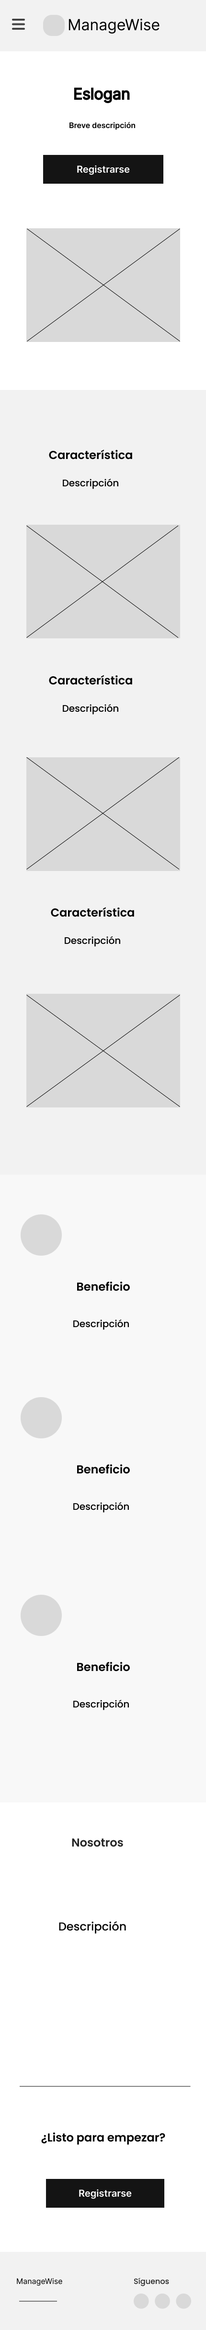
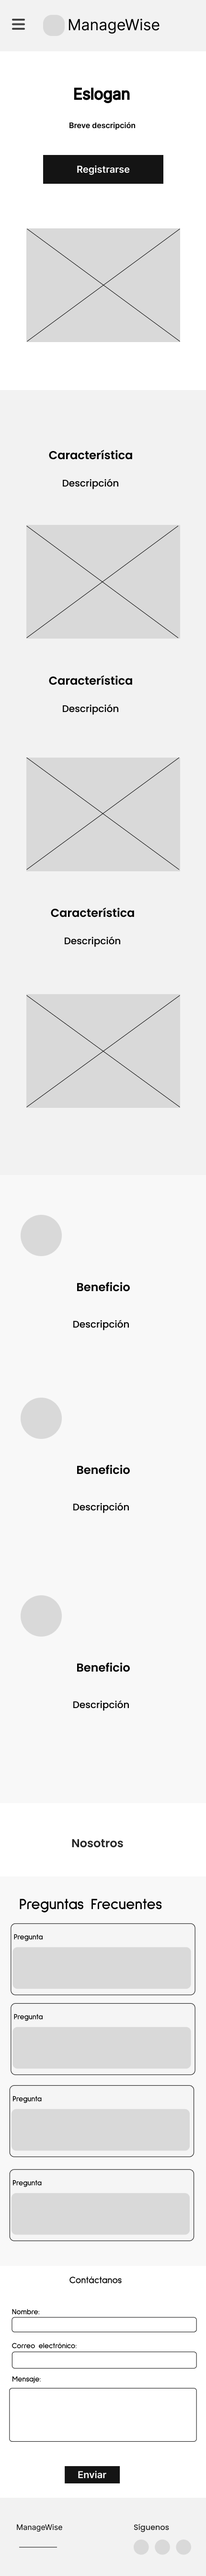
feature: update images and insert UserStory in Product Backlog

diff --git a/README.md b/README.md
@@ -984,7 +984,7 @@ Anexo E
 | 4      | US04          | Iniciar Sesión Rápido y Visible                         | Como usuario de la plataforma, quiero poder iniciar sesión desde un enlace visible en la página principal para acceder rápidamente a mi cuenta.                                                                                                |               3               |
 | 5      | US05          | Resumen de la Empresa, Misión y Visión                  | Como visitante, quiero ver un resumen de la empresa junto con la misión y visión para entender su enfoque y valores antes de registrarme.                                                                                                      |               2               |
 | 6      | US06          | Navegación Clara y Directa en la Página                 | Como usuario potencial, quiero poder navegar de forma clara y directa entre las secciones de la página para encontrar la información que necesito rápidamente.                                                                                 |               2               |
-| 7      | US07          | Comentar actividades                                    | Como líder del equipo, quiero poder agregar y eliminar comentarios sobre las actividades de los miembros del equipo, para que mis observaciones sean visibles y revisadas por el equipo antes de ser eliminadas.                               |               2               |
+| 7      | US07          | Preguntas Frecuentes                                   | Como usuario, quiero poder acceder a una sección de preguntas frecuentes en la landing page para resolver mis dudas sobre el uso de la plataforma.   |               2               |
 | 8      | US08          | Análisis de rendimiento basado en IA                    | Como líder de proyecto, quiero que la plataforma analice métricas de rendimiento del equipo, como tiempos de entrega y eficiencia, y sugiera posibles mejoras basadas en datos históricos para optimizar el trabajo.                           |               8               |
 | 9      | US09          | Personalización de interfaz                             | Como usuario de la plataforma, quiero poder personalizar la interfaz según mis preferencias y necesidades para facilitar el acceso rápido a las herramientas y funciones más utilizadas.                                                       |               3               |
 | 10     | US10          | Sincronización con herramientas externas                | Como líder de proyecto, quiero que la plataforma se integre de manera fluida con otras herramientas y sistemas externos (como calendarios y aplicaciones de mensajería) para centralizar la gestión de proyectos.                              |               5               |
@@ -1409,6 +1409,7 @@ La landing page cuenta con diferentes secciones:
 - Beneficios: El usuario puede ver los beneficios de usar la aplicación.
 - Nosotros: Se muestran la visión, misión y un breve resumen sobre la empresa detrás del proyecto. Además se incentiva al usuario a registrarse.
 - Footer: Enlaces a las redes sociales de la plataforma.  
+- Preguntas Frecuentes: Se muestra las preguntas frecuentes que suelen hacernos al momento de utilizar nuestra aplicación web
   <br>
   <img src="assets/images/WireframeDesktopWebBrowser.png">
   <br>
@@ -1433,7 +1434,7 @@ Se cuenta con un hamburger menu, el cual puede ser desplegado por el usuario y e
 <img width=300px src="assets/images/Wireframe-MobileWebBrowser-Menu.png">
 <br>
 
-Se cuenta con las mismas secciones que para desktop web browser (Hero o header, Descripción general, Beneficios, Nosotros), las cuales tienen la misma finalidad, pero en este caso se adaptan a la pantalla; permitiendo así acceso óptimo a la información.
+Se cuenta con las mismas secciones que para desktop web browser (Hero o header, Descripción general, Beneficios, Nosotros, preguntas frecuentes), las cuales tienen la misma finalidad, pero en este caso se adaptan a la pantalla; permitiendo así acceso óptimo a la información.
 <br>
 <img width=300px src="assets/images/Wireframe-MobileWebBrowser.png">
 <br>
@@ -2155,7 +2156,17 @@ El sprint planning es una reunion antes de cada sprint en la metodologia Scrum d
 #### 5.2.1.2 Sprint Backlog 1.
 
 Para el primer sprint backlog, recopilamos historias de usuario relacionadas con la página de inicio (landing page) . Para organizar y administrar estas historias de usuario, las dividimos en tareas fáciles de realizar y las asignamos a los miembros del equipo de manera efectiva, utilizamos la herramienta Trello. Nos concentramos en completar las historias de usuario durante este sprint, con el objetivo principal de crear una landing page completa con un diseño atractivo y fácil de usar. Gracias a Trello, pudimos colaborar efectivamente y seguir el progreso de las tareas, lo que nos permitió abordar y resolver
-
+| sprint #      | Sprint 1                                                 |                 |                                                  |                                                                                                                           |                       |                              |                                                           |
+| ------------- | -------------------------------------------------------- | --------------- | ------------------------------------------------ | ------------------------------------------------------------------------------------------------------------------------- | --------------------- | ---------------------------- | --------------------------------------------------------- |
+| User<br>Story |                                                          | Work-Item /Task |                                                  |                                                                                                                           |                       |                              |                                                           |
+| ID            | Title                                                    | ID              | Title                                            | Description                                                                                                               | Estimation<br>(Hours) | Assigned<br>To               | Status<br>(To-do <br>/InProcess<br>/ To-Review <br>/Done) |
+| US01          | Vista General de Beneficios y Funcionalidades            | TA001           | Implementación de Sección de Beneficios          | Crear y diseñar la sección de la página principal que destaque los beneficios clave de la plataforma.                     | ½ hora                | Arevalo Meza, John Telesforo | Done                                                      |
+| US02          | Enlaces Directos a Redes Sociales                        | TA001           | Implementación de Enlaces a Redes Sociales       | Agregar enlaces visuales y funcionales a las redes sociales en la página principal.                                       | ½ hora                | Sandoval Paiva, Valentino    | Done                                                      |
+| US03          | Registro Rápido y Simple                                 | TA001           | Diseño e Implementación del Registro de Usuario  | Crear el formulario de registro optimizado para facilitar la creación de nuevas cuentas de usuario.                       | ½ hora                | Jaque Peña, Estefano Oscar   | Done                                                      |
+| US04        | Iniciar Sesión Rápido y Visible                          | TA001           | Implementación de Enlace de Inicio de Sesión     | Agregar un enlace visible para iniciar sesión en la esquina superior de la página.                                        | 1 hora                | Jaque Peña, Estefano Oscar   | Done                                                      |
+| US05          | Resumen de la Empresa, Misión y Visión                   | TA001           | Creación de Sección "Acerca de Nosotros"         | Desarrollar la sección "Acerca de Nosotros" con la misión, visión y valores de la empresa.                                | ½ hora                | Alejo Cardenas, Jose Antonio | Done                                                      |
+| US06          | Navegación Clara y Directa en la Página                  | TA001           | Diseño del Menú de Navegación                    | Implementar un menú de navegación intuitivo que permita a los usuarios moverse fácilmente por las secciones de la página. | ½ hora                | Acuña Tomas, Diego Rolin     | Done                                                      |
+[FALTA AÑADIR tu product bakclog Sergio esta mal pusiste las del sprint 2 ]
 ![alt text](assets/images/Trello.png)
 
 | sprint #      | Sprint 1                                                 |                 |                                                  |                                                                                                                           |                       |                              |                                                           |
